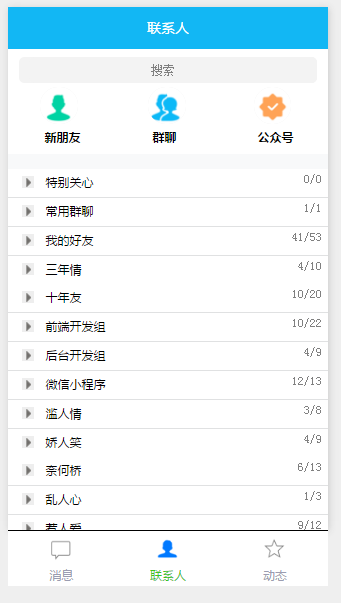
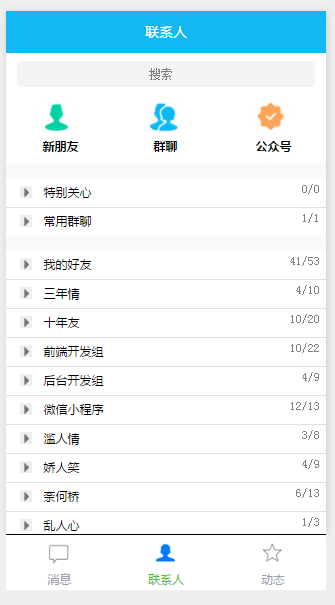
Adjust layout
Adjust layout

Changed region(s): [[0.0, 0.0, 0.9851, 0.9851], [0.7463, 0.1493, 0.8657, 0.2687], [0.0, 0.2985, 0.0299, 0.3881]]

diff --git a/README.md b/README.md
@@ -16,7 +16,10 @@
 进度更新：
 
 ![](https://github.com/xiehui999/SmallAppForQQ/blob/master/images/qq.png)
+
 ![](https://github.com/xiehui999/SmallAppForQQ/blob/master/images/contact.png)
+
+![](https://github.com/xiehui999/SmallAppForQQ/blob/master/images/dynamic.png)
 
 2016/09/25 00:37  Add images,Realization funnction QQ tab.
 
@@ -42,6 +45,7 @@
 
 2016/09/28 13:34 Realization funnction of dynamic page.
 
+2016/09/28 16:37 Adjust layout.
 
 目前正在紧张的开发中...请稍后，持续更新
 
